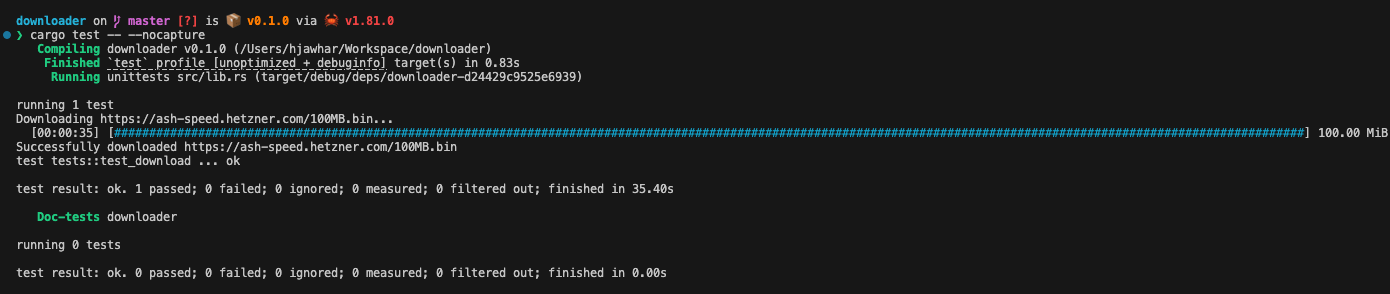
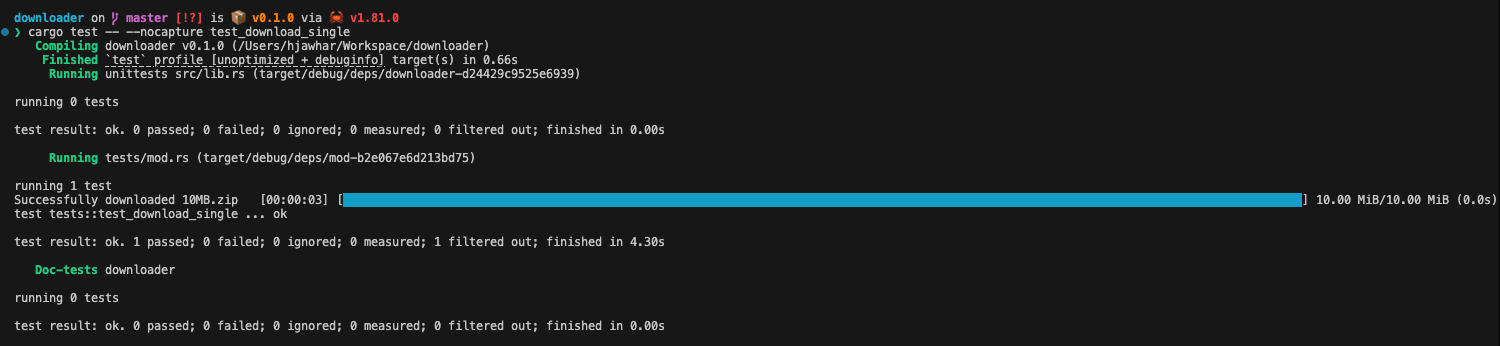
Added multiple concurrent file downloads

diff --git a/src/lib.rs b/src/lib.rs
@@ -1,19 +1,9 @@
-use futures::StreamExt;
-use indicatif::{ProgressBar, ProgressStyle};
+use futures::{future::join_all, lock::Mutex, StreamExt};
+use indicatif::{MultiProgress, ProgressBar, ProgressState, ProgressStyle};
+use std::{fmt::Write, sync::Arc};
 use tokio::{fs::File, io::AsyncWriteExt};
 
-pub async fn download_files(url: &str) -> Result<bool, Box<dyn std::error::Error + Send + Sync>> {
-    let pb = ProgressBar::new(0);
-    let mut downloaded = 0;
-    pb.set_style(
-        ProgressStyle::with_template(
-            "{spinner:.green} [{elapsed_precise}] [{wide_bar:.cyan/blue}] {bytes}",
-        )
-        .unwrap()
-        .progress_chars("#>-"),
-    );
-
-    let file_name = url.split("/").last().unwrap_or("Unknown");
+pub async fn download_file(url: &str) -> Result<bool, Box<dyn std::error::Error + Send + Sync>> {
     match std::fs::exists("./downloads") {
         Ok(exists) => {
             if !exists {
@@ -27,10 +17,26 @@ pub async fn download_files(url: &str) -> Result<bool, Box<dyn std::error::Error
             panic!("Couldn't resolve downloads folder {:#?}", err);
         }
     }
+
+    let file_name = format!("{}", url.split("/").last().unwrap_or("Unknown"));
     let mut file = File::create(format!("./downloads/{}", file_name)).await?;
-    println!("Downloading {}...", url);
-    let mut stream = reqwest::get(url).await?.bytes_stream();
-    while let Some(chunk_result) = stream.next().await {
+    let stream = reqwest::get(url).await?;
+    let file_size = match stream.headers().get("content-length") {
+        Some(val) => val.to_str()?.parse::<u64>()?,
+        None => 0,
+    };
+    let pb = ProgressBar::new(file_size);
+    pb.set_message(format!("Starting download {}", file_name));
+    pb.set_style(
+        ProgressStyle::with_template(
+            "{msg} {spinner:.green} [{elapsed_precise}] [{wide_bar:.cyan/blue}] {bytes}/{total_bytes} ({eta})",
+        ).unwrap()
+        .with_key("eta", |state: &ProgressState, w: &mut dyn Write| write!(w, "{:.1}s", state.eta().as_secs_f64()).unwrap())
+    );
+    let mut downloaded = 0;
+    let mut b_stream = stream.bytes_stream();
+    while let Some(chunk_result) = b_stream.next().await {
+        pb.set_message(format!("Downoading {}", file_name));
         let chunk = chunk_result?;
         downloaded = downloaded + chunk.len() as u64;
         pb.set_position(downloaded + chunk.len() as u64);
@@ -38,21 +44,66 @@ pub async fn download_files(url: &str) -> Result<bool, Box<dyn std::error::Error
     }
     pb.set_length(downloaded);
     file.flush().await?;
-    pb.finish_with_message("Successfully downloaded file");
-    println!("Successfully downloaded {url}");
+    pb.finish_with_message(format!("Successfully downloaded {}", file_name));
     Ok(true)
 }
 
-#[cfg(test)]
-mod tests {
-    use super::*;
-
-    #[tokio::test]
-    async fn test_download() {
-        let test_dl = download_files("https://ash-speed.hetzner.com/100MB.bin").await;
-        match test_dl {
-            Ok(res) => assert_eq!(res, true),
-            Err(err) => panic!("Something went wrong {:#?}", err),
+pub async fn download_files(
+    urls: Vec<&str>,
+) -> Result<bool, Box<dyn std::error::Error + Send + Sync>> {
+    let multi_progress = MultiProgress::new();
+    match std::fs::exists("./downloads") {
+        Ok(exists) => {
+            if !exists {
+                let created_dir = std::fs::create_dir("./downloads");
+                if let Err(err) = created_dir {
+                    panic!("Failed to create downloads directory {:#?}", err);
+                }
+            }
+        }
+        Err(err) => {
+            panic!("Couldn't resolve downloads folder {:#?}", err);
         }
     }
+
+    let multi_progress = Arc::new(Mutex::new(multi_progress));
+    let mut join_handlers = vec![];
+    for url in urls {
+        let file_name = format!("{}", url.split("/").last().unwrap_or("Unknown"));
+        let mut file = File::create(format!("./downloads/{}", file_name)).await?;
+        let stream = reqwest::get(url).await?;
+        let file_size = match stream.headers().get("content-length") {
+            Some(val) => val.to_str()?.parse::<u64>()?,
+            None => 0,
+        };
+
+        let multi_progress = multi_progress.clone();
+        join_handlers.push(tokio::spawn(async move {
+            let m = multi_progress.lock().await;
+            let pb = ProgressBar::new(file_size);
+            pb.set_style(ProgressStyle::with_template("{msg} {spinner:.green} [{elapsed_precise}] [{wide_bar:.cyan/blue}] {bytes}/{total_bytes} ({eta})").unwrap()
+                    .with_key("eta", |state: &ProgressState, w: &mut dyn Write| write!(w, "{:.1}s", state.eta().as_secs_f64()).unwrap()));
+            let pb2 = pb.clone();
+            m.add(pb2);
+            drop(m);
+            let mut downloaded = 0;
+            let mut b_stream = stream.bytes_stream();
+            pb.set_message(format!("Starting download {}", file_name));
+            while let Some(chunk_result) = b_stream.next().await {
+                pb.set_message(format!("Downoading {}", file_name));
+                if let Ok(chunk) = chunk_result {
+                    downloaded = downloaded + chunk.len() as u64;
+                    pb.clone().set_position(downloaded + chunk.len() as u64);
+                    if let Ok(_) = file.write_all(&chunk).await {}
+                }
+            }
+            pb.set_length(downloaded);
+            if let Ok(_) = file.flush().await {
+                pb.finish_with_message(format!("Successfully downloaded {}", file_name));
+            }
+        }));
+    }
+
+    join_all(join_handlers).await;
+    Ok(true)
 }

diff --git a/tests/mod.rs b/tests/mod.rs
@@ -1,0 +1,29 @@
+#[cfg(test)]
+mod tests {
+    use downloader::{download_file, download_files};
+    #[tokio::test]
+    async fn test_download_single() {
+        let test_dl = download_file("https://test2.fibertelecom.it/10MB.zip").await;
+        let res = match test_dl {
+            Ok(res) => res,
+            Err(_) => false,
+        };
+        assert_eq!(res, true);
+    }
+
+    #[tokio::test]
+    async fn test_download_multiple() {
+        let test_dl = download_files(vec![
+            "https://test2.fibertelecom.it/50MB.zip",
+            "https://test2.fibertelecom.it/20MB.zip",
+            "https://test2.fibertelecom.it/10MB.zip",
+            "https://test2.fibertelecom.it/5MB.zip",
+        ])
+        .await;
+        let res = match test_dl {
+            Ok(res) => res,
+            Err(_) => false,
+        };
+        assert_eq!(res, true);
+    }
+}

diff --git a/README.md b/README.md
@@ -1,4 +1,16 @@
 # Downloader
 ### A simple rust file downloader
 
+### Download single file
+```
+$ cargo test -- --nocapture test_download_single
+```
 ![Screenshot](https://github.com/hjawhar/downloader/blob/master/screenshots/download1.png) 
+
+### Download multiple files
+```
+$ cargo test -- --nocapture test_download_multiple
+```
+![Screenshot](https://github.com/hjawhar/downloader/blob/master/screenshots/download2.png) 
+
+![Screenshot](https://github.com/hjawhar/downloader/blob/master/screenshots/download3.png) 
